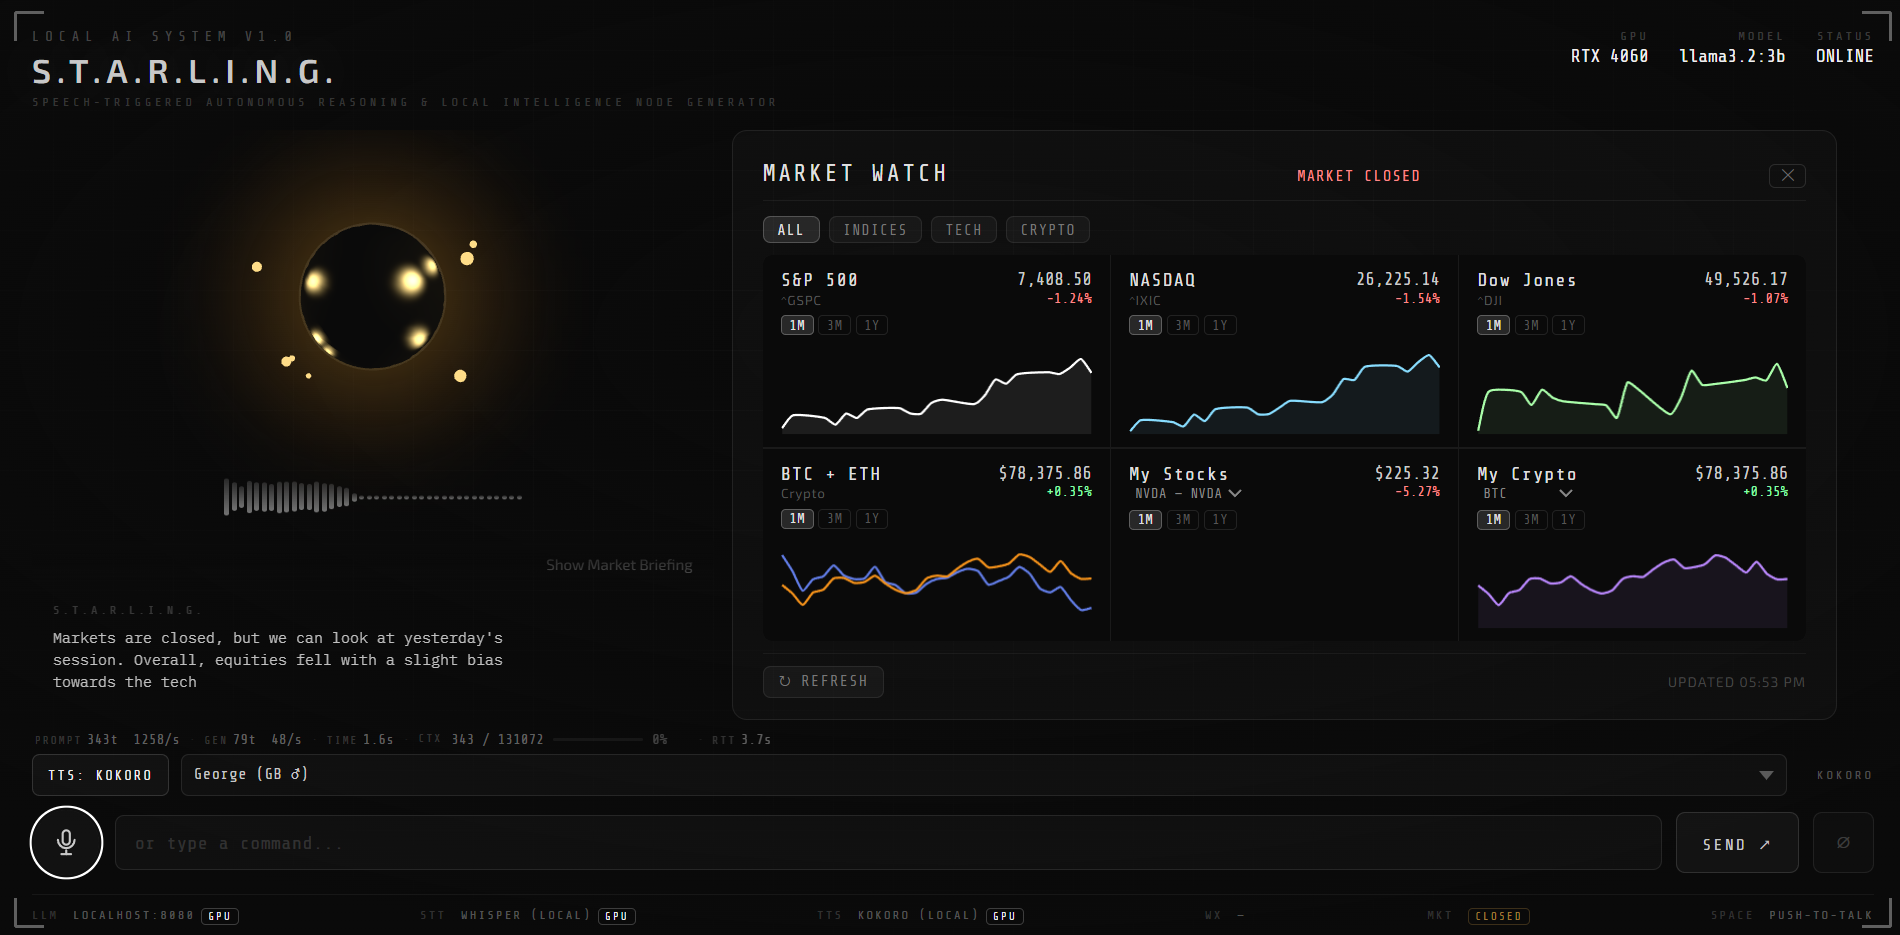
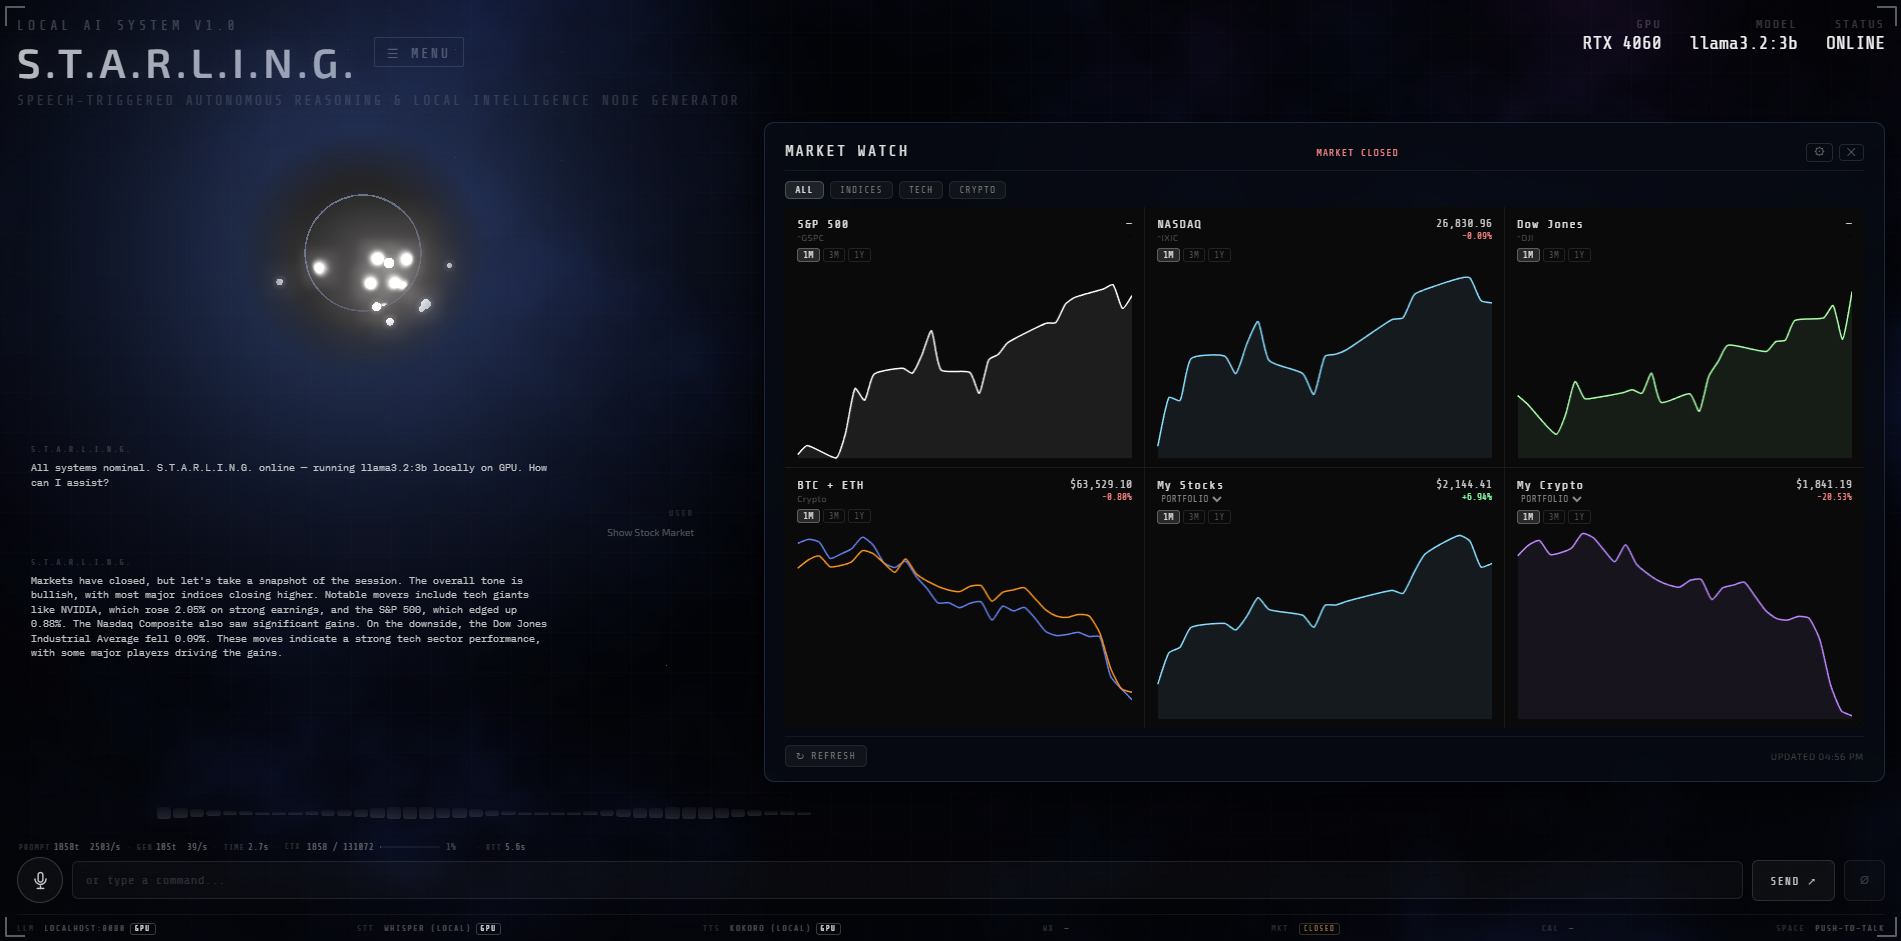
Handle Wikipedia pages, atomic write fixes, images
Add numerous example images and update browser handling to better support Wikipedia pages: introduce _WIKI_DOMAIN_RE and _fetch_wikipedia_page_text which uses requests with a proper User-Agent and returns extracted text + final URL; update fetch_page_text to route Wikipedia domains through the new handler. Improve atomic_write_text to use a unique tempfile (mkstemp), fsync, and retry on PermissionError to avoid partial writes and Windows file-lock races. Minor content tweaks to SOUL.md, add /stocks router decorator, and broaden frontend wiki trigger to include "browse wikipedia" phrasing.

diff --git a/frontend/browser-panel.js b/frontend/browser-panel.js
@@ -87,7 +87,8 @@ export function detectBrowserTrigger(transcript) {
   const wikiMatch = t.match(/\bbrowser(?:\s+window)?\s+(?:wikipedia|wiki)\s+(?:(?:for|on|about|search(?:\s+for)?)\s+)?(.+)/i)
                  || t.match(/(?:search|look up|open|find)\s+(.+?)\s+on\s+wikipedia\s+in(?:\s+the)?\s+browser(?:\s+window)?/i)
                  || t.match(/(?:wikipedia|wiki)\s+in(?:\s+the)?\s+browser(?:\s+window)?\s+(?:for|on|about)?\s*(.+)/i)
-                 || t.match(/(?:search|look up)\s+wikipedia\s+in(?:\s+the)?\s+browser(?:\s+window)?\s+(?:for\s+)?(.+)/i);
+                 || t.match(/(?:search|look up)\s+wikipedia\s+in(?:\s+the)?\s+browser(?:\s+window)?\s+(?:for\s+)?(.+)/i)
+                 || t.match(/\bbrowse\s+(?:wikipedia|wiki)\s+(?:(?:for|on|about)\s+)?(.+)/i);
   if (wikiMatch) {
     const topic = (wikiMatch[1] || '').trim();
     if (!topic) return null;

diff --git a/backend/browser.py b/backend/browser.py
@@ -89,6 +89,11 @@ _WIKI_RE = re.compile(
     re.IGNORECASE,
 )
 
+_WIKI_DOMAIN_RE = re.compile(
+    r'^https?://(?:[a-z]{2,3}\.)?wikipedia\.org(?:/|$)',
+    re.IGNORECASE,
+)
+
 
 async def _fetch_wikipedia(lang: str, title: str) -> str:
     """Use the MediaWiki API to fetch plain-text article content.
@@ -120,6 +125,31 @@ async def _fetch_wikipedia(lang: str, title: str) -> str:
     return await asyncio.get_running_loop().run_in_executor(None, _sync)
 
 
+async def _fetch_wikipedia_page_text(url: str) -> tuple[str, str]:
+    """Fetch a Wikipedia page via requests and return extracted text + final URL.
+
+    Wikimedia may reject some clients based on bot policy. For Wikipedia domains,
+    use requests in a worker thread with an identifying User-Agent.
+    """
+
+    def _sync() -> tuple[str, str]:
+        resp = _requests.get(
+            url,
+            headers={
+                'User-Agent': _WIKI_UA,
+                'Accept': 'text/html,application/xhtml+xml,application/xml;q=0.9,*/*;q=0.8',
+                'Accept-Language': 'en-US,en;q=0.9',
+                'Cache-Control': 'no-cache',
+            },
+            timeout=15,
+            allow_redirects=True,
+        )
+        resp.raise_for_status()
+        return _extract_text(resp.text), str(resp.url)
+
+    return await asyncio.get_running_loop().run_in_executor(None, _sync)
+
+
 @router.get('/browser/page-text')
 async def fetch_page_text(url: str):
     """Fetch a URL server-side and return clean page text for LLM context."""
@@ -134,15 +164,17 @@ async def fetch_page_text(url: str):
     })
 
     try:
-        async with httpx.AsyncClient(
-            timeout=15,
-            follow_redirects=True,
-        ) as client:
-            wiki = _WIKI_RE.match(url)
-            if wiki:
-                raw = await _fetch_wikipedia(wiki.group('lang'), wiki.group('title'))
-                final_url = url
-            else:
+        wiki = _WIKI_RE.match(url)
+        if wiki:
+            raw = await _fetch_wikipedia(wiki.group('lang'), wiki.group('title'))
+            final_url = url
+        elif _WIKI_DOMAIN_RE.match(url):
+            raw, final_url = await _fetch_wikipedia_page_text(url)
+        else:
+            async with httpx.AsyncClient(
+                timeout=15,
+                follow_redirects=True,
+            ) as client:
                 resp = await client.get(url, headers=_BROWSER_HEADERS)
                 resp.raise_for_status()
                 raw       = _extract_text(resp.text)

diff --git a/backend/file_utils.py b/backend/file_utils.py
@@ -8,16 +8,47 @@ from __future__ import annotations
 
 import json
 import os
+import tempfile
+import time
 from pathlib import Path
 from typing import Any
 
 
 def atomic_write_text(path: Path, content: str) -> None:
-    """Write text to `path` atomically via a `.tmp` intermediary."""
+    """Write text to `path` atomically via a unique temp file.
+
+    A fixed `<name>.tmp` file is not safe under concurrent writers and can
+    cause Windows `PermissionError` / partial-write races.
+    """
     path.parent.mkdir(parents=True, exist_ok=True)
-    tmp = path.with_suffix(path.suffix + ".tmp") if path.suffix else path.with_suffix(".tmp")
-    tmp.write_text(content, encoding="utf-8")
-    os.replace(tmp, path)
+    fd, tmp_name = tempfile.mkstemp(
+        prefix=f".{path.name}.",
+        suffix=".tmp",
+        dir=str(path.parent),
+        text=True,
+    )
+    tmp = Path(tmp_name)
+    try:
+        with os.fdopen(fd, "w", encoding="utf-8") as f:
+            f.write(content)
+            f.flush()
+            os.fsync(f.fileno())
+
+        # Transient file locks are common on Windows if another thread/process
+        # has just opened the destination file. Retry briefly before failing.
+        for attempt in range(6):
+            try:
+                os.replace(tmp, path)
+                break
+            except PermissionError:
+                if attempt == 5:
+                    raise
+                time.sleep(0.03 * (attempt + 1))
+    finally:
+        try:
+            tmp.unlink(missing_ok=True)
+        except OSError:
+            pass
 
 
 def atomic_write_json(path: Path, data: Any, *, indent: int = 2) -> None:

diff --git a/backend/stocks.py b/backend/stocks.py
@@ -834,6 +834,7 @@ async def get_portfolio_analysis(force: bool = Query(False)):
         "market_open": market_open,
     }
 
+@router.get("/stocks")
 async def get_stocks():
     """Return live price data grouped by watchlist; backward-compat flat 'tickers' + 'llm_context' included."""
     _t0 = time.time()

diff --git a/backend/memory/soul/SOUL.md b/backend/memory/soul/SOUL.md
@@ -33,4 +33,5 @@ Daniel is STARLING's creator and sole user. He has deep technical fluency across
 - Prioritises user autonomy in decision-making processes
 - Emphasises practical, actionable advice over theoretical knowledge
 - Values transparency in information presentation
-- Prioritises providing straightforward, factual information over narrative or opinion
+- Values accuracy and reliability of data sources, prioritising external sources over internal limitations
+- Recognises and adapts to technical difficulties and limitations
